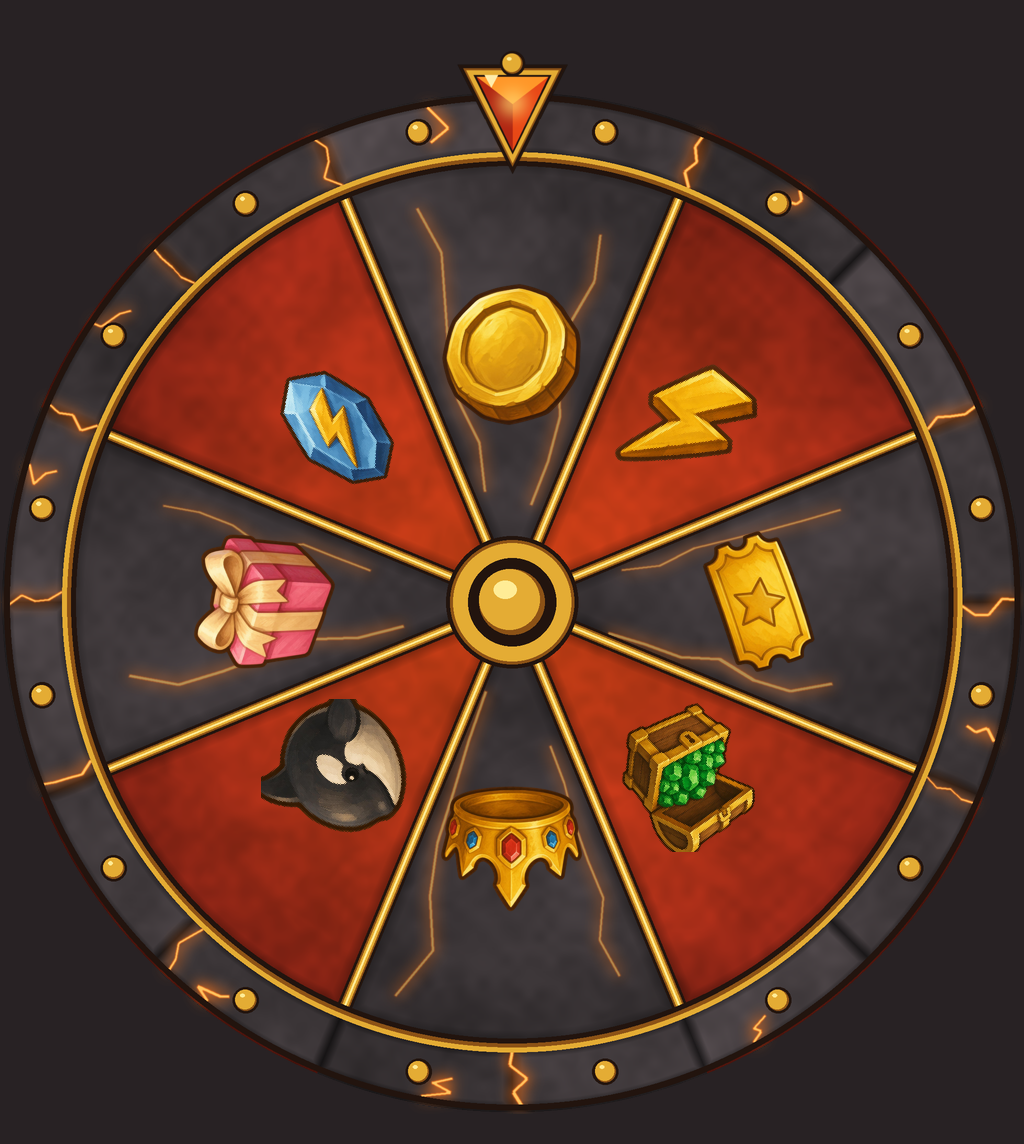
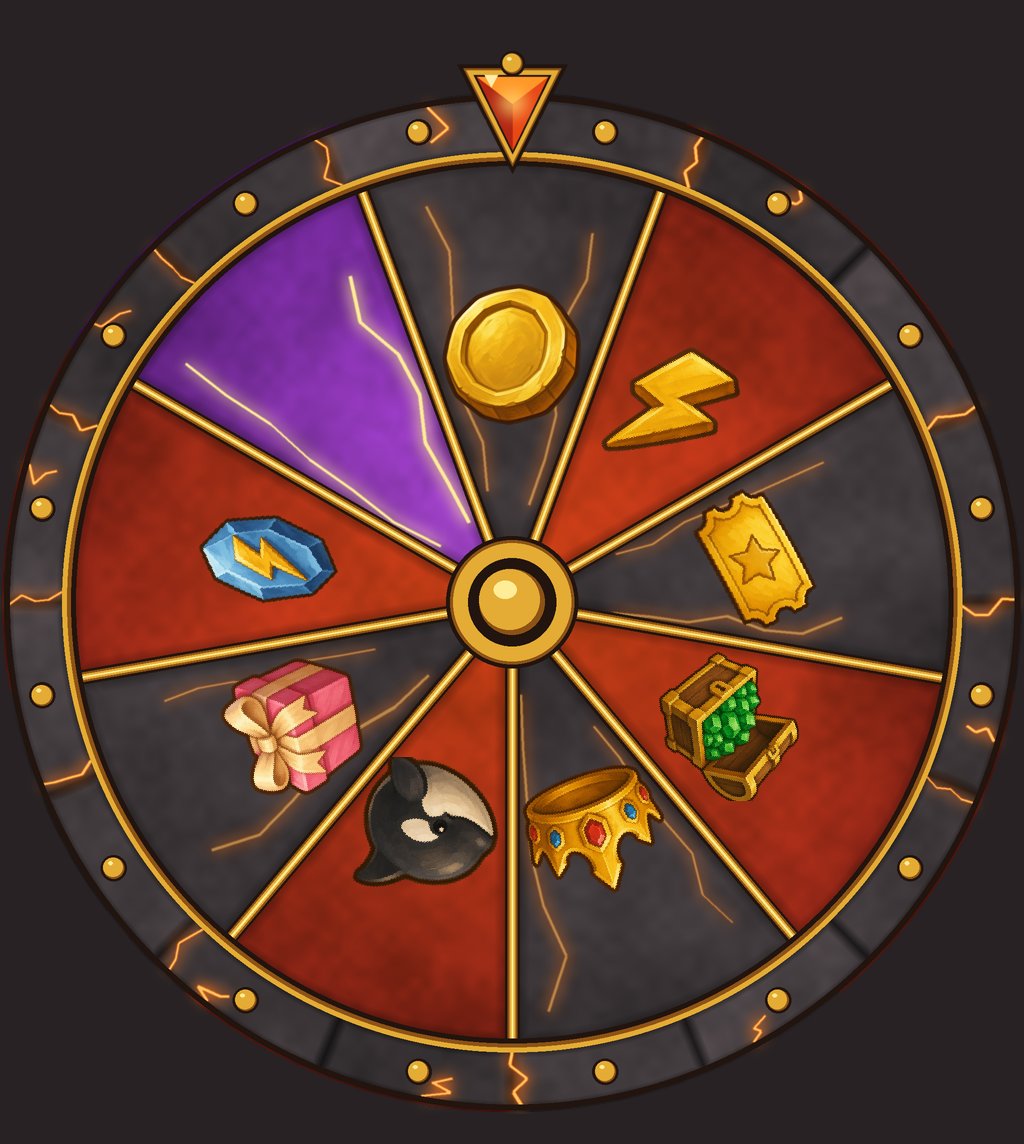
agrega la caña suprema a la ruleta: 0.01 %, x3 la mejor caña y rueda de 9 casillas

diff --git a/tools/ui/generar_ruleta.py b/tools/ui/generar_ruleta.py
@@ -5,8 +5,10 @@ remaches dorados y un centro dorado como el ícono pintado de la ruleta (iconos/
 
 La geometría es la de la rueda anterior (assets/ui/RuedaRuleta.png), porque SpinWheelView pone
 los íconos y textos de cada premio encima con esas medidas:
-    1024 x 1024, centro (512, 512), 8 casillas de 45°, la casilla 1 centrada arriba y las
-    siguientes en sentido horario; las casillas llegan a r = 446 y el aro a r = 508.
+    1024 x 1024, centro (512, 512), CASILLAS casillas iguales (9 desde el 2026-10-21: la 9 es la
+    caña suprema), la casilla 1 centrada arriba y las siguientes en sentido horario; las
+    casillas llegan a r = 446 y el aro a r = 508.
+Las casillas alternan piedra y lava; la de la caña suprema (MITICA) es violeta con vetas doradas.
 El puntero mide 256 x 256 con la punta abajo al centro (128, 238), como el anterior.
 
 Todo se dibuja al doble y se achica al final (bordes suaves). La textura es ruido de varias
@@ -26,11 +28,14 @@ SALIDA = os.path.join(RAIZ, "assets", "ui", "ruleta_v2")
 ICONOS = os.path.join(RAIZ, "assets", "ui", "iconos", "v4")
 
 LADO, K = 1024, 2  # tamaño final y sobremuestreo
-CASILLAS, R_CASILLAS, R_ARO, R_CENTRO = 8, 446, 508, 66
+CASILLAS, R_CASILLAS, R_ARO, R_CENTRO = 9, 446, 508, 66
+GRADOS = 360 / CASILLAS  # ancho de cada casilla
+MITICA = 8  # casilla de la caña suprema (0 = la de arriba)
 CONTORNO = (34, 20, 14)
 ORO_CLARO, ORO, ORO_OSCURO = (255, 236, 150), (228, 172, 52), (140, 82, 22)
 PIEDRA = np.array([60, 54, 56], float)
 LAVA_ROJA = np.array([138, 36, 22], float)
+VIOLETA = np.array([96, 34, 128], float)
 GRIETA, BRILLO = (255, 120, 30), (255, 214, 110)
 
 
@@ -100,15 +105,18 @@ def rueda():
     dx, dy = xx - c, yy - c
     r = np.hypot(dx, dy) / K
     ang = (np.degrees(np.arctan2(dx, -dy)) + 360) % 360  # 0 = arriba, horario
-    sector = np.floor(((ang + 22.5) % 360) / 45).astype(int)  # 0 = casilla 1
-    off = np.abs(((ang + 22.5) % 45) - 22.5)  # grados al centro de la casilla
-    al_borde = np.minimum((22.5 - off) * np.pi / 180 * r, R_CASILLAS - r)  # px al separador
+    mitad = GRADOS / 2
+    sector = np.floor(((ang + mitad) % 360) / GRADOS).astype(int)  # 0 = casilla 1
+    off = np.abs(((ang + mitad) % GRADOS) - mitad)  # grados al centro de la casilla
+    al_borde = np.minimum((mitad - off) * np.pi / 180 * r, R_CASILLAS - r)  # px al separador
 
     tex = textura(n, 7)[..., None]
     lava = (sector % 2 == 1)[..., None]
-    base = np.where(lava, LAVA_ROJA, PIEDRA)
+    mitica = (sector == MITICA)[..., None]
+    base = np.where(mitica, VIOLETA, np.where(lava, LAVA_ROJA, PIEDRA))
     calor = np.clip(1 - r / R_CASILLAS, 0, 1)[..., None]  # la lava se enciende al centro
     color = base * (0.7 + 0.6 * tex) + np.where(lava, calor * [70, 30, 0], 0)
+    color += np.where(mitica, calor * [80, 40, 90], 0)  # la mítica brilla al centro
     color *= np.clip(0.55 + al_borde[..., None] / 40, 0.55, 1)  # sombra junto a los bordes
 
     # Aro de piedra: 16 bloques con juntas, cada uno con su tono y bordes redondeados.
@@ -133,18 +141,26 @@ def rueda():
             tramos.append(camino(rnd, a, R_ARO - 6, R_CASILLAS + rnd.uniform(14, 40), 3, 2))
     img.alpha_composite(grietas(n, tramos, 5))
     finas = []  # grietas finas en las casillas de piedra, a un lado para no tapar el premio
-    for s in range(0, CASILLAS, 2):
+    for s in range(0, CASILLAS - 1, 2):
         for lado in (-1, 1):
-            a = s * 45 + lado * rnd.uniform(12, 16)
+            a = s * GRADOS + lado * GRADOS * rnd.uniform(0.27, 0.36)
             finas.append(camino(rnd, a, rnd.uniform(90, 160), rnd.uniform(330, 420), 6, 2.5))
     capa = grietas(n, finas, 9)
     capa.putalpha(capa.getchannel("A").point(lambda v: v * 0.6))
     img.alpha_composite(capa)
+    doradas = []  # vetas doradas en la casilla mítica, también a los lados
+    for lado in (-1, 1):
+        a = MITICA * GRADOS + lado * GRADOS * rnd.uniform(0.27, 0.36)
+        doradas.append(camino(rnd, a, rnd.uniform(90, 160), rnd.uniform(360, 430), 6, 2.5))
+    capa = grietas(n, doradas, 13)
+    oro_capa = Image.new("RGBA", (n, n), (*ORO_CLARO, 0))
+    oro_capa.putalpha(capa.getchannel("A"))
+    img.alpha_composite(oro_capa)
 
     d = ImageDraw.Draw(img)
     # Separadores dorados (con contorno) y bandas doradas entre las casillas y el aro.
     for s in range(CASILLAS):
-        a = math.radians(s * 45 + 22.5 - 90)
+        a = math.radians(s * GRADOS + GRADOS / 2 - 90)
         p = (c + math.cos(a) * R_CASILLAS * K, c + math.sin(a) * R_CASILLAS * K)
         d.line((c, c, *p), CONTORNO, 15 * K)
         d.line((c, c, *p), ORO_OSCURO, 10 * K)
@@ -207,13 +223,13 @@ def muestra(img_rueda, img_puntero):
     """Rueda con los íconos de los premios donde los pone SpinWheelView (solo para revisar)."""
     fondo = Image.new("RGBA", (LADO, LADO + 120), (40, 34, 36, 255))
     fondo.alpha_composite(img_rueda, (0, 90))
-    iconos = ("coin", "bolt", "ticket", "chest", "crown", "orca", "giftPink", "crystal")
+    iconos = ("coin", "bolt", "ticket", "chest", "crown", "orca", "giftPink", "crystal", "superRod")
     for i, nombre in enumerate(iconos):
         ruta = os.path.join(ICONOS, nombre + ".png")
         if not os.path.exists(ruta):
             continue
-        a, rr, t = math.radians(i * 45 - 90), 0.43 * 0.56 * LADO, int(0.15 * LADO)
-        ico = Image.open(ruta).convert("RGBA").resize((t, t)).rotate(-i * 45, expand=False)
+        a, rr, t = math.radians(i * GRADOS - 90), 0.43 * 0.56 * LADO, int(0.15 * LADO)
+        ico = Image.open(ruta).convert("RGBA").resize((t, t)).rotate(-i * GRADOS, expand=False)
         x, y = LADO / 2 + math.cos(a) * rr - t / 2, LADO / 2 + math.sin(a) * rr - t / 2 + 90
         fondo.alpha_composite(ico, (int(x), int(y)))
     t = int(0.13 * LADO)

diff --git a/docs/devlog.md b/docs/devlog.md
@@ -3327,3 +3327,35 @@ PC 720p igual que antes (sin velo, aviso flotante, columnas en su lugar); sin er
 **Qué sigue:** ¡TIRA! no se vio en pantalla (sale al picar un pez): su tamaño sale del mismo
 lugar (1.25 × Pescar, tope 36 % del alto). En teléfonos bajos la columna derecha queda chica
 (botones de 36 pt, 7 mm): si se quiere más grande, habría que sacar algo de ella.
+
+## 2026-10-21 (5) — Calendario del diario y caña suprema en la ruleta
+
+**Qué se hizo (pedido del usuario):**
+- **Calendario:** ícono v4 pintado a mano (Canva, con la moneda maestra de guía): calendario de
+  piedra volcánica con franja de lava, tilde dorada y un regalito. Va en el botón Premio de
+  arriba y asomando sobre el título de la ventana del diario.
+- **Caña suprema** (opciones del usuario: 300 % de tu mejor caña, rueda nueva de 9 casillas, si
+  ya la tiene se vuelve a sortear):
+  - Ícono de caña de obsidiana con vetas de lava, carrete dorado con rubí, cristales, llamas y
+    rayos.
+  - `Config.Spin`: premio `rod` con peso 0.01 (las monedas bajan de 30 a 29.99) y
+    `superRod = { multiplier = 3 }`.
+  - Guardado v15 `superRod`, atributo `CanaSuprema`. `Upgrades.rodPower` / `rodLuck`
+    multiplican la caña actual, así sigue valiendo x3 al comprar otra y al renacer; los usan
+    el entrenamiento, el descanso, la pesca (suerte) y el medidor del monstruo.
+  - `SpinWheel`: si ya la tiene, su peso es 0. Al salir, los demás reciben Notice `superRod`
+    cuando la rueda frena; el cartel de la ruleta usa el ícono de la casilla.
+  - Rueda: `tools/ui/generar_ruleta.py` acepta cualquier número de casillas; la 9 es violeta con
+    vetas doradas. Los % del centro se angostaron para que no se pisen, y los de menos de 0.1 se
+    muestran con dos decimales (0.01%).
+- **Hoja 3 de íconos v4:** calendario, caña suprema y las caras del Dios del Volcán y el Rey del
+  Mar (pendientes de hoja desde el 2026-10-20). Íconos `calendar`, `superRod`, `volcanoGod`,
+  `seaKing`.
+
+**Probado en Studio (simulador de teléfono + Play):** rueda de 9 casillas con 0.01% y los %
+separados; la rueda frena en la caña con el aviso `spin` 9; el cartel "¡¡CAÑA SUPREMA!!" con el
+ícono; con `CanaSuprema` la caña de madera pasa de x1.5 a x4.5 poder y de 5 % a 15 % de suerte;
+el calendario en la barra y en el diario; sin errores en el Output. El sorteo real con 0.01 % no
+se probó (no hay comando de admin para forzarlo). `ClaimSpin` no cambió de argumentos (ninguno).
+**Pendiente:** íconos en 200 px (el conector de Canva no da más); la caña en la mano se ve igual
+que la normal.

diff --git a/docs/ui-assets.md b/docs/ui-assets.md
@@ -93,7 +93,7 @@ premios encima con esas medidas. Archivos en `assets/ui/ruleta_v2/` (`_muestra.p
 
 | Nombre | Archivo | Uso | `Assets.UI` |
 |---|---|---|---|
-| RuedaRuleta | rueda.png | Rueda de la ventana Ruleta y de la ruleta del mundo | 86382670718617 |
+| RuedaRuleta | rueda.png | Rueda de la ventana Ruleta y de la ruleta del mundo (9 casillas desde el 2026-10-21; la 9, violeta, es la caña suprema) | 103590278651247 (antes 86382670718617, de 8) |
 | PunteroRuleta | puntero.png | Gema de lava que marca el premio | 71593213487154 |
 
 ## Modelos y texturas de mesh
@@ -134,8 +134,14 @@ tablas de media de Canva de cada ícono quedan en el devlog del 2026-10-17 (17).
 | 1 (HUD) | `v4/iconos_v4_hud.png` | IconSheet = 135004623117532 | moneda, poder, canasta con peces, **monstruo alimentado** (reemplaza la calavera de "monstruos llenados"), canasta, cofre, regalo, engranaje, pez, boleto, amigos, grupo, colmillo, cuenco de peces (insignia `fed`) |
 | 2 | `v4/iconos_v4_hoja2.png` | IconSheet2 = 97933580602007 → 89496859008486 | caña, botas, corona, estanque, rayo, orca, minotauro, dragón (el nuevo), zorro, regalo rosa, flecha, carne, rayos y brillo (copiados de la hoja anterior) |
 
-**Caras de los trajes de pase** (2026-10-20, sueltos, todavía no están en ninguna hoja ni
-subidos): `v4/volcanoGod.png` (Dios del Volcán) y `v4/seaKing.png` (Rey del Mar), en celda de
+**Hoja 3** (2026-10-21): `v4/iconos_v4_hoja3.png`, `Assets.UI.IconSheet3 = 101327392927525`
+(reemplaza a la hoja 3 vieja del monstruo panzón). Celdas: 0 calendario (premio diario, media
+`MAHYrGtj_3Y`, sin fondo; con fondo `MAHYrCptBMc`), 1 caña suprema de la ruleta (`MAHYrJQ3VAE`;
+con fondo `MAHYrC4E5bU`), 2 Dios del Volcán, 3 Rey del Mar. El calendario y la caña se generaron
+con la moneda maestra como guía; están en 200 px (`v4/crudo2/`) porque el conector no da más:
+para mejorarlos, bajar la versión de 1024 desde Canva, volver a armar la hoja y subirla.
+
+**Caras de los trajes de pase** (2026-10-20; desde el 2026-10-21 en la hoja 3): `v4/volcanoGod.png` (Dios del Volcán) y `v4/seaKing.png` (Rey del Mar), en celda de
 256 como los demás. Se generaron en Canva con la moneda maestra y el minotauro v4 como guía de
 estilo y una captura de cada traje en Studio como guía de diseño; fondo quitado en Canva.
 Media de Canva: Dios `MAHYj4m_JoE`, Rey `MAHYj8u8m8w` (con fondo: `MAHYj5mH0GA`,

diff --git a/docs/decisiones.md b/docs/decisiones.md
@@ -1042,3 +1042,14 @@ DisplayOrder 0 (debajo del HUD) para quedar bajo el velo y no tocarse con un men
 velo tapa sin cambiarles `Visible` a piezas que otros módulos muestran u ocultan (Pescar,
 «Siguiente meta»). En Roblox no hay forma de saber los DPI, así que los tamaños táctiles van en
 proporción al alto de la pantalla y se comprobaron en mm con los datos del simulador.
+
+## 2026-10-21 — La caña suprema multiplica la caña que tengas
+
+**Contexto:** el usuario pidió una caña muy poderosa que solo salga en la ruleta (0.01 %). Las
+cañas son 20 niveles en fila y renacer los vuelve al 1. **Decisión (del usuario):** no es un
+nivel 21 sino un objeto aparte (`save.superRod`) que da el 300 % de la mejor caña que tenga:
+x3 su poder y su suerte (`Upgrades.rodPower` / `rodLuck`, `Config.Spin.superRod.multiplier`).
+Así no rompe el orden de la tienda ni deja de valer al renacer. **Lo no obvio:** la suerte también
+va x3 (la de Poseidón pasa de 3 a 9) y los lanzamientos para llenar la canasta y la fuerza en la
+pelea siguen por nivel, sin la caña suprema. Si ya la tiene, su casilla pesa 0 y se sortea entre
+las demás.

diff --git a/docs/backlog.md b/docs/backlog.md
@@ -208,6 +208,11 @@ entrenamiento x2 en la guarida del volcán y la ruleta trae al siguiente (por ah
 - [x] Ranking global de Poder y Kills en los tableros de la entrada (`Leaderboards`,
       `RankingBoards`); sin publicar muestra a los jugadores del servidor.
 - [x] Premio diario de 7 días con racha (`DailyReward`, `DailyWindow`).
+- [x] Ícono de calendario v4 para el premio diario (botón de arriba y título de la ventana).
+- [x] Caña suprema: premio de la ruleta (0.01 %, rueda de 9 casillas) que da x3 el poder y la
+      suerte de la mejor caña; solo sale una vez (guardado v15).
+- [ ] Caña suprema: cambiar los íconos de 200 px por la versión de 1024 de Canva y que la
+      caña se vea distinta en la mano.
 - [ ] Con el lugar publicado: comprobar insignias reales y el ranking global.
 - [x] Títulos y kills sobre la cabeza, impulso de amigos, códigos, regalo del grupo.
 - [ ] Crear el grupo de Roblox del juego y poner su número en `Config.Social.group.groupId`.
